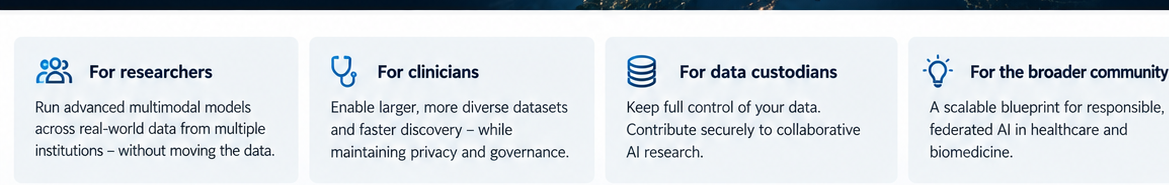
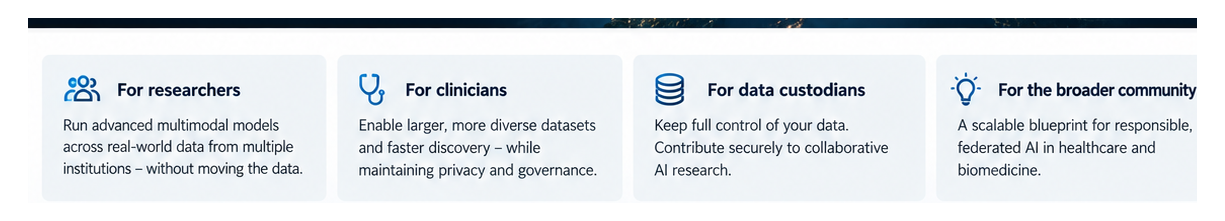
Update README graphics and documentation

diff --git a/README.md b/README.md
@@ -1,5 +1,5 @@
 <p align="center">
-  <img src="docs/assets/superfedmmd-hero.png" width="100%" alt="SuperFedMMD concept: local biomedical data connected through Gefion without moving source data">
+  <img src="docs/assets/superfedmmd-hero.png" width="96%" alt="SuperFedMMD concept: local biomedical data connected through Gefion without moving source data">
 </p>
 
 # SuperComputer Federated MultiModal Diagnostics
@@ -11,7 +11,7 @@ SuperFedMMD is an infrastructure prototype for hospitals, biobanks and research 
 The project uses **Gefion** as the supercomputing environment and **NVIDIA FLARE** as the federation layer. The predictive model itself is intentionally replaceable: SuperFedMMD focuses on the infrastructure required to distribute, execute, coordinate, aggregate and reproduce a federated multimodal workflow.
 
 <p align="center">
-  <img src="docs/assets/superfedmmd-audiences.png" width="100%" alt="How SuperFedMMD can support researchers, clinicians, data custodians and the broader community">
+  <img src="docs/assets/superfedmmd-audiences.png" width="96%" alt="How SuperFedMMD can support researchers, clinicians, data custodians and the broader community">
 </p>
 
 ---
@@ -117,7 +117,7 @@ The final reproducible run should record its Git commit, FLARE version, Gefion/r
 ## How it works — high level
 
 <p align="center">
-  <img src="docs/assets/superfedmmd-high-level-flow.png" width="100%" alt="High-level SuperFedMMD flow from local data to local model execution, Gefion aggregation, updated model and shared insight">
+  <img src="docs/assets/superfedmmd-high-level-flow.png" width="96%" alt="High-level SuperFedMMD flow from local data to local model execution, Gefion aggregation, updated model and shared insight">
 </p>
 
 **Local data stay local. The computation travels. Model knowledge is aggregated.**
@@ -248,7 +248,7 @@ The federation interface is intended to be deny-by-default.
 ## Key capabilities
 
 <p align="center">
-  <img src="docs/assets/superfedmmd-capabilities.png" width="100%" alt="Key SuperFedMMD capabilities including privacy-preserving federation, multimodal data, scalable Gefion infrastructure and reproducibility">
+  <img src="docs/assets/superfedmmd-capabilities.png" width="96%" alt="Key SuperFedMMD capabilities including privacy-preserving federation, multimodal data, scalable Gefion infrastructure and reproducibility">
 </p>
 
 The infrastructure is intended to support heterogeneous multimodal sites, reproducible federated execution, controlled outbound communication and multi-institution collaboration without centralising the underlying biomedical source data.
